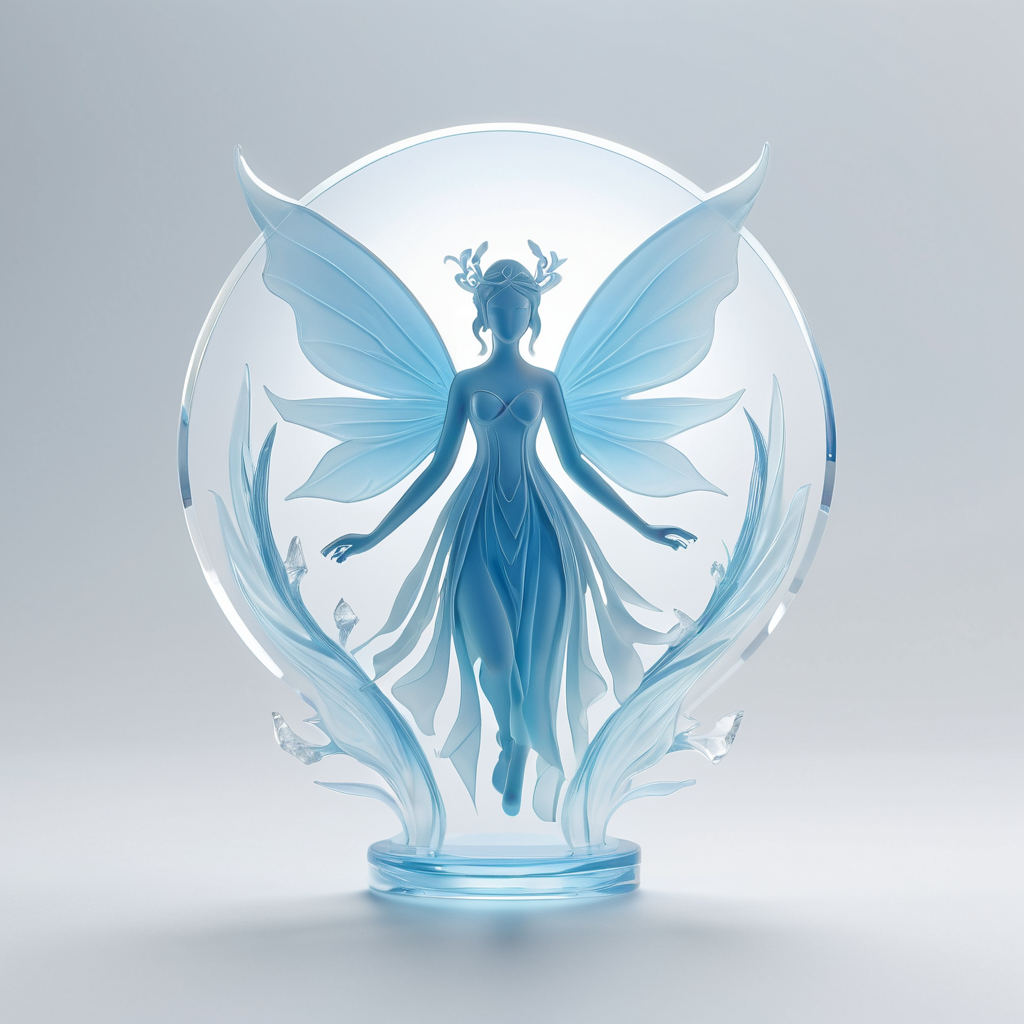
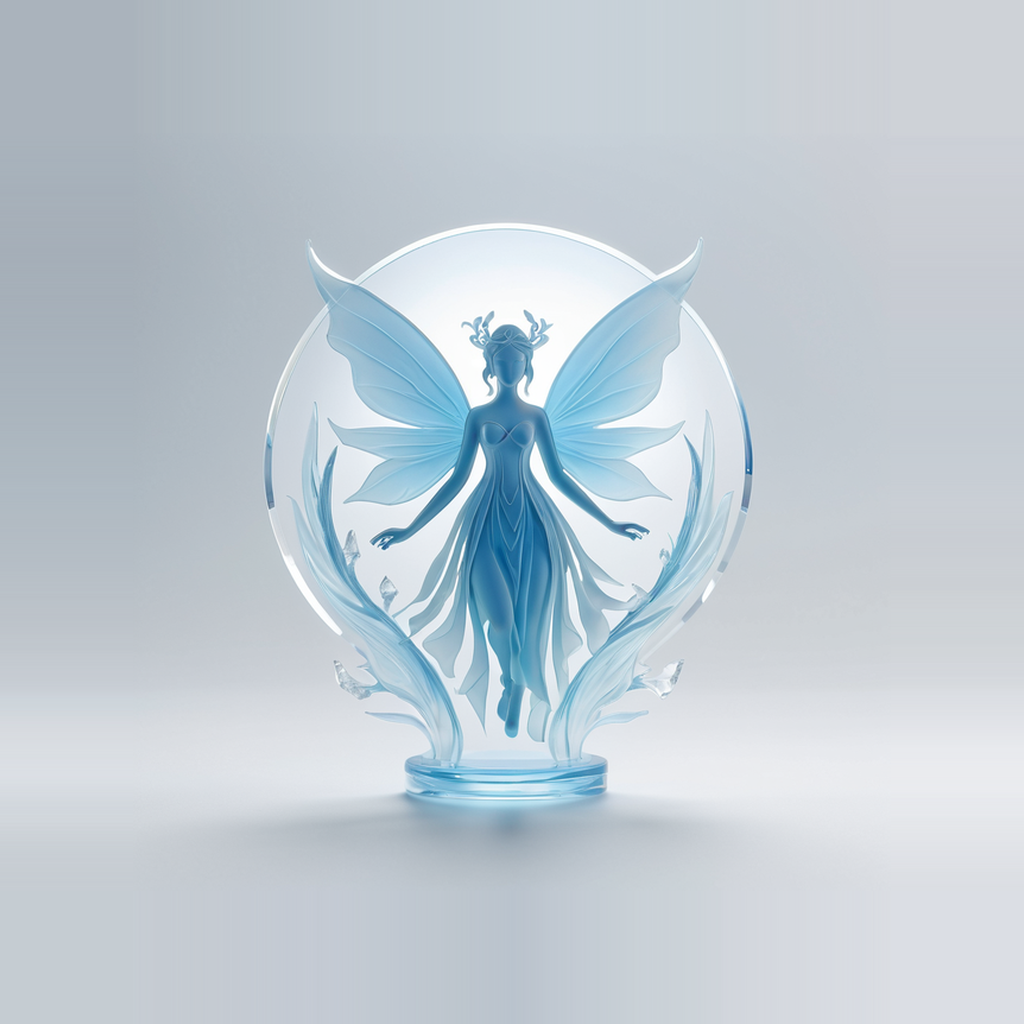
fix: v2.0.10 放大应用图标并去除四周白边

Changed region(s): [[0.125, 0.0938, 0.8438, 0.9688]]

diff --git a/README.md b/README.md
@@ -8,7 +8,7 @@
 
 > 仓库：https://github.com/dongjinkui72-create/jianzhi-xianling  
 > 安装包：https://github.com/dongjinkui72-create/jianzhi-xianling/releases  
-> 最新版 v2.0.9：https://github.com/dongjinkui72-create/jianzhi-xianling/releases/tag/v2.0.9  
+> 最新版 v2.0.10：https://github.com/dongjinkui72-create/jianzhi-xianling/releases/tag/v2.0.10  
 >
 > **本软件永久免费、代码开源。如遇任何人以本软件名义收费，那就是你被骗了。** 觉得好用请到仓库点亮 Star。
 
